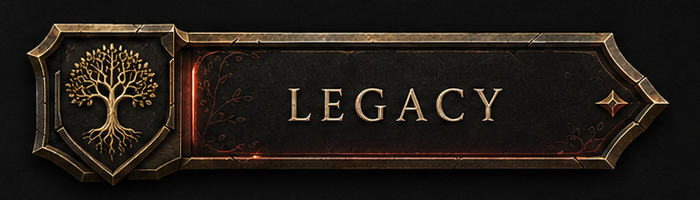
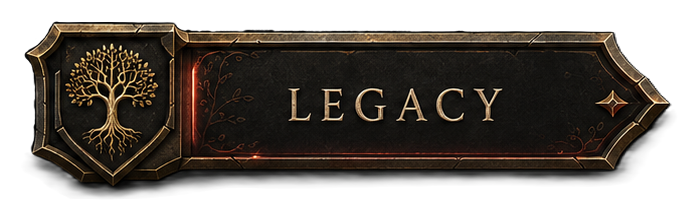
Replace launcher sidebar button assets

diff --git a/apps/rpg-ui/src/game-shell/components/LauncherSpriteClock.tsx b/apps/rpg-ui/src/game-shell/components/LauncherSpriteClock.tsx
@@ -1,0 +1,150 @@
+import type { CSSProperties } from 'react';
+
+type LauncherSpriteClockProps = {
+  clockLabel: string;
+  clockTitle: string;
+  className?: string;
+};
+
+type ClockGlyphId =
+  | '0'
+  | '1'
+  | '2'
+  | '3'
+  | '4'
+  | '5'
+  | '6'
+  | '7'
+  | '8'
+  | '9'
+  | ':'
+  | 'AM'
+  | 'PM';
+
+type ClockGlyphRect = {
+  x: number;
+  y: number;
+  width: number;
+  height: number;
+};
+
+const CLOCK_SPRITE_URL = '/clock/number-tile-dark-glyphs.png';
+const CLOCK_SPRITE_WIDTH = 1448;
+const CLOCK_SPRITE_HEIGHT = 1086;
+const CLOCK_SPRITE_SCALE = 0.165;
+
+const CLOCK_GLYPHS: Record<ClockGlyphId, ClockGlyphRect> = {
+  '0': { x: 61, y: 76, width: 192, height: 232 },
+  '1': { x: 343, y: 73, width: 192, height: 232 },
+  '2': { x: 620, y: 76, width: 192, height: 232 },
+  '3': { x: 912, y: 74, width: 192, height: 232 },
+  '4': { x: 1189, y: 73, width: 192, height: 232 },
+  '5': { x: 57, y: 426, width: 192, height: 232 },
+  '6': { x: 342, y: 424, width: 192, height: 232 },
+  '7': { x: 622, y: 426, width: 192, height: 232 },
+  '8': { x: 908, y: 425, width: 192, height: 232 },
+  '9': { x: 1194, y: 426, width: 192, height: 232 },
+  ':': { x: 122, y: 758, width: 64, height: 232 },
+  AM: { x: 316, y: 763, width: 248, height: 232 },
+  PM: { x: 598, y: 764, width: 248, height: 232 }
+};
+
+function normalizeMeridiem(value: string): ClockGlyphId | null {
+  const normalized = value.replace(/\./g, '').toUpperCase();
+
+  if (normalized === 'AM' || normalized === 'PM') {
+    return normalized;
+  }
+
+  return null;
+}
+
+function parseClockGlyphs(clockLabel: string): ClockGlyphId[] | null {
+  const normalized = clockLabel.trim();
+
+  if (!normalized) {
+    return null;
+  }
+
+  const [timePart = '', ...suffixParts] = normalized.split(/\s+/);
+  const glyphs: ClockGlyphId[] = [];
+
+  for (const character of timePart) {
+    if (character in CLOCK_GLYPHS) {
+      glyphs.push(character as ClockGlyphId);
+      continue;
+    }
+
+    return null;
+  }
+
+  const suffix = suffixParts.join('');
+
+  if (suffix) {
+    const meridiem = normalizeMeridiem(suffix);
+
+    if (!meridiem) {
+      return null;
+    }
+
+    glyphs.push(meridiem);
+  }
+
+  return glyphs.length > 0 ? glyphs : null;
+}
+
+function buildGlyphStyle(glyph: ClockGlyphId): CSSProperties {
+  const rect = CLOCK_GLYPHS[glyph];
+
+  return {
+    width: `${rect.width * CLOCK_SPRITE_SCALE}px`,
+    height: `${rect.height * CLOCK_SPRITE_SCALE}px`,
+    backgroundImage: `url("${CLOCK_SPRITE_URL}")`,
+    backgroundSize: `${CLOCK_SPRITE_WIDTH * CLOCK_SPRITE_SCALE}px ${
+      CLOCK_SPRITE_HEIGHT * CLOCK_SPRITE_SCALE
+    }px`,
+    backgroundPosition: `-${rect.x * CLOCK_SPRITE_SCALE}px -${
+      rect.y * CLOCK_SPRITE_SCALE
+    }px`
+  };
+}
+
+export function LauncherSpriteClock({
+  clockLabel,
+  clockTitle,
+  className = ''
+}: LauncherSpriteClockProps) {
+  const glyphs = parseClockGlyphs(clockLabel);
+  const accessibleLabel = clockTitle || clockLabel;
+
+  if (!glyphs) {
+    return (
+      <span
+        className={`launcher-sprite-clock launcher-sprite-clock-fallback ${className}`}
+        title={clockTitle}
+        aria-label={accessibleLabel}
+      >
+        {clockLabel}
+      </span>
+    );
+  }
+
+  return (
+    <span
+      className={`launcher-sprite-clock ${className}`}
+      title={clockTitle}
+      aria-label={accessibleLabel}
+    >
+      <span className="sr-only">{clockLabel}</span>
+      <span className="launcher-sprite-clock-glyphs" aria-hidden="true">
+        {glyphs.map((glyph, index) => (
+          <span
+            key={`${glyph}.${index}`}
+            className="launcher-sprite-clock-glyph"
+            style={buildGlyphStyle(glyph)}
+          />
+        ))}
+      </span>
+    </span>
+  );
+}

diff --git a/apps/rpg-ui/src/game-shell/components/MainMenuScreen.tsx b/apps/rpg-ui/src/game-shell/components/MainMenuScreen.tsx
@@ -11,6 +11,7 @@ import {
   type ManualSaveSlotId,
   type SaveSlotSummary
 } from '../state.js';
+import { LauncherSpriteClock } from './LauncherSpriteClock.js';
 import { NoticeBanner } from './NoticeBanner.js';
 import { ShellBrandLogo } from './ShellBrandLogo.js';
 
@@ -250,12 +251,7 @@ export function MainMenuScreen({
             >
               <span className="truncate">{accountProfile.displayName}</span>
             </button>
-            <div
-              className="inline-flex h-10 items-center px-1 text-sm font-medium tabular-nums text-[color:var(--color-text-strong)]"
-              title={clockTitle}
-            >
-              {clockLabel}
-            </div>
+            <LauncherSpriteClock clockLabel={clockLabel} clockTitle={clockTitle} />
             {accountMenuOpen && (
               <div
                 className="launcher-menu absolute right-0 top-12 z-50 w-48 p-2"

diff --git a/apps/rpg-ui/src/game-shell/components/SettingsScreen.tsx b/apps/rpg-ui/src/game-shell/components/SettingsScreen.tsx
@@ -6,6 +6,7 @@ import type {
   GameShellNotice,
   SaveSlotSummary
 } from '../state.js';
+import { LauncherSpriteClock } from './LauncherSpriteClock.js';
 import { NoticeBanner } from './NoticeBanner.js';
 import { ShellBrandLogo } from './ShellBrandLogo.js';
 
@@ -437,12 +438,7 @@ export function SettingsScreen({
           >
             <span className="truncate">{accountProfile.displayName}</span>
           </button>
-          <div
-            className="inline-flex h-10 items-center px-1 text-sm font-medium tabular-nums text-[color:var(--color-text-strong)]"
-            title={clockTitle}
-          >
-            {clockLabel}
-          </div>
+          <LauncherSpriteClock clockLabel={clockLabel} clockTitle={clockTitle} />
           {accountMenuOpen && (
             <div
               className="launcher-menu absolute right-0 top-12 z-50 w-48 p-2"

diff --git a/apps/rpg-ui/src/index.css b/apps/rpg-ui/src/index.css
@@ -476,6 +476,37 @@ body {
     0 0 10px rgba(181, 122, 72, 0.08);
 }
 
+.launcher-sprite-clock {
+  display: inline-flex;
+  height: 2.5rem;
+  flex: 0 0 auto;
+  align-items: center;
+  justify-content: center;
+  color: var(--color-text-strong);
+  filter:
+    drop-shadow(0 1px 0 rgba(255, 238, 188, 0.08))
+    drop-shadow(0 2px 4px rgba(0, 0, 0, 0.62));
+}
+
+.launcher-sprite-clock-glyphs {
+  display: inline-flex;
+  align-items: center;
+  gap: 0.0625rem;
+}
+
+.launcher-sprite-clock-glyph {
+  display: block;
+  flex: 0 0 auto;
+  background-repeat: no-repeat;
+}
+
+.launcher-sprite-clock-fallback {
+  padding-inline: 0.25rem;
+  font-size: 0.875rem;
+  font-weight: 600;
+  font-variant-numeric: tabular-nums;
+}
+
 .launcher-menu {
   border-radius: 0.5rem;
   border: 1px solid var(--color-border-soft);

diff --git a/docs/dev/current-codex-output.md b/docs/dev/current-codex-output.md
@@ -1,49 +1,67 @@
 # Current Codex Output
 
-Source version/run: Launcher Inactive Character Asset Replacement
+Source version/run: Launcher Sidebar Button Asset Replacement
 Date: 2026-05-13
-Branch/status assumption: `master`; worktree already had modified launcher spacing files, this output doc, and a modified `unused assets/Inactive_Character.png` at run start.
+Branch/status assumption: `master`; worktree already contained the prior launcher sprite-clock changes, untracked clock assets, and user-updated `unused assets/` button source files at run start.
 
 ## Result
 
-Replaced the current launcher inactive Character button image used by the UI with the updated asset from `unused assets/Inactive_Character.png`.
+Replaced the eight launcher sidebar button runtime assets with the updated background-removed files from `unused assets/`.
 
-The UI is wired to `/launcher/character-inactive-soft.png`, so only `apps/rpg-ui/public/launcher/character-inactive-soft.png` was overwritten. The older raw `character-inactive.png` asset was left unchanged.
+The UI already references the `*-soft.png` files under `apps/rpg-ui/public/launcher/`, so no component wiring or behavior changed. All copied assets retained the required `700x200` dimensions.
 
 ## Files Changed
 
-- `apps/rpg-ui/public/launcher/character-inactive-soft.png`
+- `apps/rpg-ui/public/launcher/character-active-soft.png`
+- `apps/rpg-ui/public/launcher/character-inactive-soft.png` verified/replaced, no net diff from current source state
+- `apps/rpg-ui/public/launcher/legacy-active-soft.png`
+- `apps/rpg-ui/public/launcher/legacy-inactive-soft.png`
+- `apps/rpg-ui/public/launcher/chronicles-active-soft.png`
+- `apps/rpg-ui/public/launcher/chronicles-inactive-soft.png`
+- `apps/rpg-ui/public/launcher/settings-active-soft.png`
+- `apps/rpg-ui/public/launcher/settings-inactive-soft.png`
 - `docs/dev/current-codex-output.md`
 
-Existing dirty files preserved from earlier work:
+Existing dirty files from prior/user work were preserved:
 
-- `apps/rpg-ui/src/game-shell/components/AppShell.tsx`
+- `apps/rpg-ui/src/game-shell/components/MainMenuScreen.tsx`
+- `apps/rpg-ui/src/game-shell/components/SettingsScreen.tsx`
+- `apps/rpg-ui/src/game-shell/components/LauncherSpriteClock.tsx`
 - `apps/rpg-ui/src/index.css`
-- `unused assets/Inactive_Character.png`
+- `apps/rpg-ui/public/clock/`
+- `unused assets/Active_Character.png`
+- `unused assets/Active_Chronicles.png`
+- `unused assets/Active_Settings.png`
+- `unused assets/Active_legacy.png`
+- `unused assets/Inactive_Chronicles.png`
+- `unused assets/Inactive_Legacy.png`
+- `unused assets/Inactive_Settings.png`
+- `unused assets/number_tile_dark.png`
 
 ## Checks Run
 
-- `git status --short`: run before edits; showed modified launcher spacing files, modified output doc, and modified `unused assets/Inactive_Character.png`.
-- Asset inspection: source and destination are both `700x200`.
[1 lines of base64/hex data omitted]
+- `git status --short`: run before edits; showed prior sprite-clock/UI changes plus user-updated unused button assets.
+- Asset dimension inspection: all eight unused source images and all eight public launcher destinations are `700x200`.
+- Hash verification after copy: all eight public launcher destinations match their corresponding `unused assets/` source files byte-for-byte.
 - `npm.cmd run tool:content-lint`: passed.
 - `git diff --check`: passed with CRLF normalization warnings only.
 
 ## Behavior / Runtime Confirmation
 
-Runtime behavior did not change. Save/account state, content JSON, schemas, combat, magic, Legacy, progression logic, character creator logic, save-slot behavior, launcher routing, and button state logic were untouched.
+Runtime behavior did not change. Save/account state, content JSON, schemas, combat, magic, Legacy, progression, character creator logic, save-slot behavior, launcher routing, clock logic, and sidebar button interaction wiring were untouched.
 
-This was limited to replacing the inactive Character launcher button image asset currently referenced by the UI.
+This was limited to replacing the launcher sidebar button image assets already referenced by `AppShell`.
 
 ## Risks / Follow-Up
 
 - No browser visual QA was run; validation was asset dimension/hash plus lint/diff checks.
-- The source `unused assets/Inactive_Character.png` remains modified in the worktree because it was already the updated user-provided source asset.
+- The `unused assets/` source images remain modified because they are the user-provided updated source assets.
+- Existing sprite-clock changes from the prior run remain in the worktree and were not modified by this asset replacement.
 
 ## Next Recommended Version
 
-Version 0.5.29 - Launcher Browser Visual QA
+Version 0.5.31 - Launcher Browser Visual QA
 
 ## Suggested Commit Message
 
-style(ui): update inactive character launcher asset
+style(ui): replace launcher sidebar button assets
